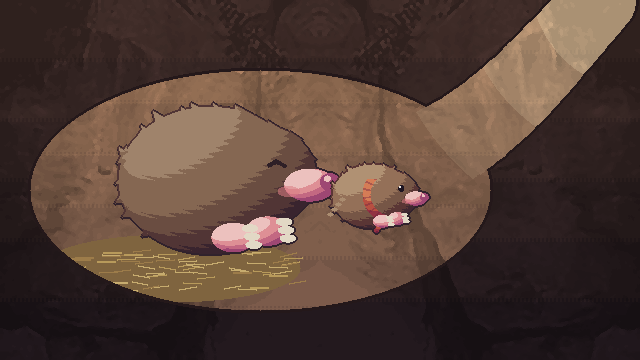
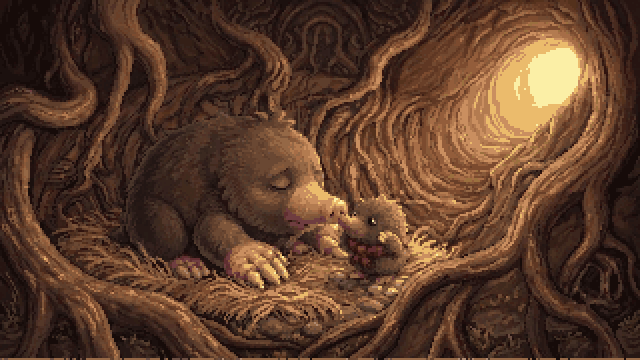
나노바나나 일러스트 mother_burrow를 게임에(실 없는 따뜻한 집): 첫 판의 거미줄 같은 실, 둘째 판의 갈색으로만 바뀐 띠를 "지운 자리에 맨 나무껍질과 흙벽을 그려라"로 고친 셋째 판(0126)
Claude-Session: https://claude.ai/code/session_01VNXEyeHwdhsn4oiHYXtNpM

diff --git a/tools/art/ai_illust.py b/tools/art/ai_illust.py
@@ -33,6 +33,8 @@ SIZE = {
 # 장면 → ✦ 자리(가운데 x, y, 반지름, 원본 px).
 STAR = {
     'great_tree': (912, 785, 21),
+    # 16:9(1024×572) 그림은 늘 이 자리(수수 시트도 같다).
+    'mother_burrow': (935, 483, 19),
 }
 
 

diff --git a/assets/LICENSES.md b/assets/LICENSES.md
@@ -11,7 +11,7 @@
 | `art/portraits.png` | 직접 그림. 원본 `tools/art/portraits.py`. **Naïl 칸 0~3·18~29, 포포 칸 5~6, 물든 모모 칸 7~8, 들쥐 대장(물든 보리) 칸 9, 보리 칸 10~11, 돌아온 모모 칸 12~14, 누룩 할매 칸 15~16, 엄마 칸 17, 도토 칸 30~32, 수수 칸 33~34, 콩이 칸 35~37**은 나노바나나(Google Gemini 이미지 모델)로 사장이 그린 원본 `tools/art/sources/ai/*.png`를 `tools/art/ai_portraits.py`가 칸으로 만든 것(2026-10-26, docs/decisions/0108·0109·0110·0112·0113·0114·0115·0116·0117·0118·0119·0120·0121·0122). 참고 그림은 직접 그린 초상화만 넣었다(팩 그림 없음, 0064). 모든 생성 그림에 SynthID 워터마크가 들어 있다 | © 2026 Beardworks | 대화창 초상화 88×88, 한 줄 12칸(Naïl 털빛 3 × 표정 4 포함, Naïl 표정 4 + 이웃 그림자 + 라쿤 포포 2 + 물든 모모 2 + 들쥐 대장·보리 3 + 돌아온 모모 3 + 누룩 할매 2 + 엄마 두더지 1 + 도토 3 + 수수 2 + 콩이 3) |
 | `art/critters.png` | 직접 그림. 원본 `tools/art/critters.py` | © 2026 Beardworks | 적(물든 들쥐·생쥐·시궁쥐·다람쥐·청설모)·허수아비·라쿤 포포·물든 모모·돌아온 모모·도토·돌아온 도토·수수·콩이·돌아온 콩이 16×16 + 흰 실루엣. v2 손으로 찍은 자세 |
 | `art/chief.png` | 직접 그림. 원본 `tools/art/chief.py` | © 2026 Beardworks | 튜토리얼 보스 들쥐 대장(물든 모습 8칸)·돌아온 보리(5칸) 32×32 + 흰 실루엣 |
-| `art/illust/*.png`(타이틀 바탕 `title.png`·`title_fog.png` 포함, 0083 — 타이틀은 바탕 그림 없이 코드로만) | 직접 그림(임시). 원본 `tools/art/illust.py`. **`great_tree`**는 나노바나나(Google Gemini 이미지 모델)로 사장이 그린 원본 `tools/art/sources/ai/illust/great_tree.png`를 `tools/art/ai_illust.py`가 게임 격자로 만든 것(2026-10-26, docs/decisions/0125, 참고 그림은 구도 그림만, 팩 그림 없음, SynthID 워터마크 있음) | © 2026 Beardworks(molehill·last_bloom·mother_burrow·bori_freed·momo_bloom 바탕은 아래 그림들, CC0·퍼블릭 도메인) | 컷씬 일러스트 9장 640×360(2배 밀도, 일부는 패닝용으로 더 큼). 사람이 그린 그림으로 바꾸면 이 행을 작가·계약으로 고친다(docs/art/cutscene-illustrations.md) |
+| `art/illust/*.png`(타이틀 바탕 `title.png`·`title_fog.png` 포함, 0083 — 타이틀은 바탕 그림 없이 코드로만) | 직접 그림(임시). 원본 `tools/art/illust.py`. **`great_tree`·`mother_burrow`**는 나노바나나(Google Gemini 이미지 모델)로 사장이 그린 원본 `tools/art/sources/ai/illust/*.png`를 `tools/art/ai_illust.py`가 게임 격자로 만든 것(2026-10-26, docs/decisions/0125·0126, 참고 그림은 나노바나나 캐릭터 시트·초상화와 구도 그림만, 팩 그림 없음, SynthID 워터마크 있음) | © 2026 Beardworks(molehill·last_bloom·bori_freed·momo_bloom 바탕은 아래 그림들, CC0·퍼블릭 도메인) | 컷씬 일러스트 9장 640×360(2배 밀도, 일부는 패닝용으로 더 큼). 사람이 그린 그림으로 바꾸면 이 행을 작가·계약으로 고친다(docs/art/cutscene-illustrations.md) |
 | `tools/art/sources/robert_mouth_of_cave.jpg` → `art/illust/mother_burrow.png` 흙벽 질감 | Hubert Robert, *The Mouth of a Cave*, 유화, 1784, The Met 17.190.25 [소장품 페이지](https://www.metmuseum.org/art/collection/search/437470) (web-large, 2026-10-26) | CC0(Met Open Access, `isPublicDomain: true`) | 엄마 굴 일러스트(0073). 오른쪽 바위벽만 잘라 좌우 대칭으로 넓히고 **밝기 질감으로만** 쓴다(색은 코드의 굴 색) |
 | `tools/art/sources/meadow_at_sunset_1845.jpg` → `art/illust/bori_freed.png` 바탕 | *A Meadow at Sunset*, ca. 1845, National Gallery of Art 2013.196.3 소장. [rawpixel](https://www.rawpixel.com/image/7727995/image-art-public-domain-artworks) 이미지를 Openverse 썸네일(600px)로 받음(2026-10-26). 작가 이름은 rawpixel 제목에 'Paul'까지만 보여 확인 못 함 | CC0 1.0(Openverse 표기, NGA Open Access) | 보리 일러스트 바탕(0073) |
 | `tools/art/sources/landscape_background_1846.jpg` → `art/illust/momo_bloom.png` 바탕 | *Landscape background*(1846–1848), 수채. [rawpixel](https://www.rawpixel.com/image/8544138/image-background-aesthetic-cloud) 이미지를 Openverse 썸네일(600px)로 받음(2026-10-26). 작가·소장처 미확인 | CC0 1.0(Openverse 표기) | 모모 일러스트 바탕(0073). 원 소장처를 확인하면 이 줄을 고친다 |

diff --git a/docs/phase-1-combat-prototype.md b/docs/phase-1-combat-prototype.md
@@ -126,7 +126,7 @@
 | 해·모닥불 그림자(0102~0106, 시험) | `render.rs`(draw_sun_shadows·shadow_dir·sun_shear·silhouette_material, draw_sorted의 sun), `sunny.rs`(stamp_sun_shadow), `terrain.rs`(Baker::fires), `tuning.rs`(SUN_SHADOW_*·FIRE_SHADOW_*·DECOR_LIFT_*) | 서 있는 것의 모양을 발 줄 축으로 눕혀 렌더 타깃에 모아 한 번에 얹는다. 밝은 곳은 해(오른쪽 아래), 모닥불 곁은 불 바깥쪽(150px, 멀수록 길게, 불이 아래면 더 길게 0104, 어두운 곳은 바깥으로 옅게). 모닥불 돌은 돌만 키운 모양(뒤쪽은 짧게, 0105). 그림자 패스는 몸만(빛·표시·반투명·바닥 것 제외, 밝은 곳은 타원 그림자 끔, 0106). 구운 꽃·조약돌·풀포기는 높이 비율만큼 짧게 |
 | Naïl·포포·모모(돌아옴·물듦)·보리(돌아옴·물듦)·누룩 할매·엄마·도토(돌아옴·물듦)·수수·콩이(돌아옴·물듦) 초상화 나노바나나(0107~0122, 이웃 그림자 칸 4 말고 모두) | `tools/art/sources/ai/nail_*.png`, `tools/art/ai_portraits.py`, `tools/art/portraits.py`(sheet), `docs/art/nano-banana-prompts.md` | 표정 넷 원본 → 로고 지우기·결의 눈 색·배경 투명·88×88·한 팔레트(눈 8색 따로)·털빛 셋(주둥이·발톱은 자리로 지킴). 포포: 틀 맞추기(높이 92%)·채도 높은 색 따로. 모모: 검은 선 → 자두빛, 틀 1.22(귀 끝을 칸 맨 위에, 가슴을 칸 아래로), 가슴이 지워지지 않게 아래 끝 번지기 끔. 물든 모모: 같은 틀, 실은 굵게·위로, 눈은 선명한 초록으로 고쳐 그림, 흰빛은 보랏빛으로 물들임. 보리: 시트를 통통하게 고쳐 그림, 틀 그대로. 들쥐 대장: 보리를 고쳐 그림, 눈 팔레트 안 뗌(보라 기운 털), 빨간 눈 밝게. 할매: 시트의 둥근 얼굴 판으로 표정 짝, 둘러싸인 배경 틈 지움. 엄마: Naïl 초상화를 함께 넣고 털을 짙고 매끈하게, 앞발은 따로 고쳐 그림. Naïl 결의: 덜 표독스럽게 다시 그림, 팔레트를 얼려 다른 칸은 그대로. 도토: 시트에서 조끼·보라 꽃·리본 빼고, 몸이 잘린 줄까지만 써 배 구멍 막음. 물든 도토: 도토를 고쳐 그림, 호박색 눈 밝게. 수수: 생김새 글을 새로 쓰고 삽발을 칸 아래에. 콩이: 3/4 모습 기준, 토끼 귀가 아닌 뾰족한 귀. 물든 콩이: 하늘빛 눈 밝히기, 배경색 잡기를 튀는 점에 강하게. 다른 캐릭터는 다음 차례 |
 | 앱 아이콘: 큰 나무·실에 얽힌 뿌리 실루엣(0123) | `tools/icons/make_icons.py`(`art`), `ios/icons`, `android/res/mipmap-*` | 64칸 코드 그림, 금빛 원 앞 나무 + 보랏빛 앞 뿌리 + 뿌리 다발을 묶는 실 고리 둘. 일러스트에서 자른 것과 견주어 이것을 유지(48px에서 읽힘) |
-| 나노바나나 일러스트(0125~) | `tools/art/sources/ai/illust/*.png`, `tools/art/ai_illust.py`, `tools/art/illust.py`(main) | 첫 장 `great_tree`. 게임 칸마다 가장 흔한 색 + 채도 높은 색은 색상별 팔레트·칸 문턱 15%(작은 빨간 눈을 지킨다). 남은 장면은 같은 길 |
+| 나노바나나 일러스트(0125~) | `tools/art/sources/ai/illust/*.png`, `tools/art/ai_illust.py`, `tools/art/illust.py`(main) | `great_tree`·`mother_burrow`(실을 지운 자리에 맨 나무껍질을 그리게 해 집 장면에서 실 제거). 게임 칸마다 가장 흔한 색 + 채도 높은 색은 색상별 팔레트·칸 문턱 15%(작은 빨간 눈을 지킨다). 남은 장면은 같은 길 |
 | 웨이브 | `world.rs`, `scenario.rs` | 지금은 개발 시나리오(아레나·웨이브 3부터)에서만. 적을 다 잡으면 1.2초 뒤 다음 웨이브(1C+1S → 2C+1S → 2C+2S → 3C+2S). 명세엔 없지만 5분 플레이 판정을 위해 넣음 |
 
 확인한 것: 데스크톱(Xvfb) 실행 캡처로 렌더 방향·공격 반원·굴파기·히트박스 표시, 헤드리스 Chromium으로 웹 빌드 로드·입력·콘솔(mismatch 없음). 확인 못 한 것: 실제 손맛(판정 1~4), 실기 게임패드, 소리의 실제 느낌(컨테이너에 오디오 장치 없음).

diff --git a/docs/decisions/0126-ai-illustration-mother-burrow.md b/docs/decisions/0126-ai-illustration-mother-burrow.md
@@ -1,0 +1,19 @@
+# 0126. 나노바나나 일러스트 `mother_burrow`: 집 장면에서 실 지우기
+
+- 날짜: 2026-10-26
+- 상태: 채택. 0125에 이은 둘째 장. 첨부: `sheet_nail`, `ref_mom`, 구도 그림(0124).
+
+## 결정(`tools/art/sources/ai/illust/mother_burrow.png`, `ai_illust.STAR`)
+- 세 번 그렸다.
+  1. 첫 그림: 엄마·Naïl·둥지·굴길 빛은 사양대로인데, 굴 방의 뿌리마다 보라 실이 감기고 뿌리 사이에 거미줄처럼 걸렸다. 사양(`cutscene-illustrations.md`)에서 이 장면은 실이 없는 따뜻한 집이다. 원인은 프롬프트 앞의 세계 규칙("실은 뿌리를 감는다").
+  2. "보라 실을 지워라" → 실이 지워지지 않고 **갈색으로 바뀌었다**. 뿌리를 감은 띠와 그물이 그대로라 여전히 묶인 뿌리·거미줄로 읽혔다(뿌리를 감은 띠는 이 게임에서 할매의 실을 뜻한다).
+  3. "띠와 그물을 지우고 **그 자리에 맨 나무껍질과 흙벽을 그려라**" → 채택.
+- ✦ 자리는 (935,483). 16:9(1024×572) 그림은 늘 이 자리다(수수 시트와 같다).
+
+## 함정
+- 이미지 모델은 "지워라"를 "색을 바꿔라"로 처리하기 쉽다. **지운 자리에 무엇을 그릴지**까지 적는다.
+- 실이 없는 장면에는 세계 규칙 뒤에 "이 장면에는 보라 실이 없다"를 붙인다(`nano-banana-prompts.md`, `mother_burrow`·`molehill`·`sprout`·`last_bloom`).
+
+## 확인
+- `assets/art/illust/`에서 바뀐 그림은 `mother_burrow.png`뿐이다.
+- 헤드리스: 개발 → "이야기 일러스트"의 오프닝에서 엄마 "오늘부터 네 굴을 찾아." · Naïl "응. …다녀올게!" 뒤에 새 그림이 나온다. 대화창이 Naïl의 몸 아래와 엄마 앞발을 가리지만 두 얼굴과 굴길 빛은 창 위다.
